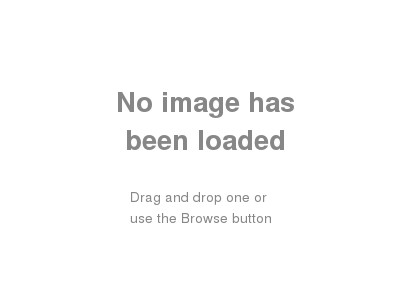
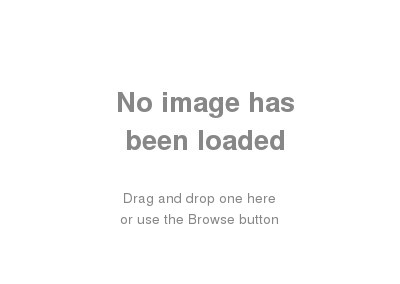
Dropping works ok

Changed region(s): [[0.3, 0.6761, 0.72, 0.7887]]

diff --git a/index.html b/index.html
@@ -4,7 +4,6 @@
     <meta charset="utf-8">
     <meta http-equiv="X-UA-Compatible" content="IE=edge">
     <meta name="viewport" content="width=device-width, initial-scale=1">
-    <!-- The above 3 meta tags *must* come first in the head; any other head content must come *after* these tags -->
     <meta name="description" content="Concerto Project">
     <meta name="author" content="Alberto Barquin">
 
@@ -14,7 +13,6 @@
     <link href="bootstrap.min.css" rel="stylesheet">
 
 	<!-- Custom styles for this template -->
-<!--    <link href="jumbotron.css" rel="stylesheet">-->
     <link href="stylesheet.css" rel="stylesheet">
 	<script type="text/javascript" src="misc.js"></script>
 
@@ -26,11 +24,7 @@
     <![endif]-->
   </head>
 
-  <body ondragover="drag(event)" ondragleave="nodrag(event)">
-	<div id="div1" ondrop="drop(event)" ondragover="event.preventDefault()">
-		<div class="center"><h2>Drop your image here</h2></div>
-	</div>
-
+  <body>
     <nav class="navbar navbar-inverse navbar-fixed-top">
       <div class="container">
         <div class="navbar-header">
@@ -42,8 +36,21 @@
           </button>
           <a class="navbar-brand" href="#">Concerto</a>
         </div>
-        <div id="navbar" class="navbar-collapse collapse">
-          <form class="navbar-form navbar-right">
+        <div id="navbar" class="navbar-collapse collapse" aria-expanded="false">
+			<ul class="nav navbar-nav">
+				<li class="active">
+					<a>Home</a>
+				</li>
+				<li>
+					<a href="#" onclick="undisplay(event)">Clear image</a>
+				</li>
+				<li>
+					<a href="#" role="button" onclick="analize()">Analize &raquo;</a>
+				</li>
+				<li>
+				</li>
+			</ul>
+       <!--   <form class="navbar-form navbar-right">
             <div class="form-group">
               <input type="text" placeholder="Email" class="form-control">
             </div>
@@ -51,32 +58,23 @@
               <input type="password" placeholder="Password" class="form-control">
             </div>
             <button type="submit" class="btn btn-success">Sign in</button>
-          </form>
+			</form> -->
         </div><!--/.navbar-collapse -->
       </div>
     </nav>
 
-    <!-- Main jumbotron for a primary marketing message or call to action -->
 	<div class="container">
 	  <div class="row">
-		  <div class="col-md-2"></div>
-		  <div class="col-md-4"></div>
 		  <div class="col-md-5">
-			<img id="image" src="noimage.jpg" draggable="false" onload="chksz(this)">
+			<img id="image" src="noimage.jpg" draggable="false" onload="chksz(this)" ondragover="drag(event)" ondrop="drop(event)">
+				<input id ="file" class="btn btn-primary btn-lg" href="#" type="file" onchange="load(event)"></input>
 			<div class="row">
-				<div class="col-md-1"></div>
-				<div class="col-md-7">
-					<p><input id ="file" class="btn btn-primary btn-lg" href="#" type="file" onchange="load(event)"></input></p>
-				</div>
-				<div class="col-md-2"></div>
 			</div>
 			<div class="row">
 				<div class="col-md-1"></div>
 				<div class="col-md-5">
-					<p><button class="btn btn-primary btn-lg" onclick="undisplay(event)">Clear</button></p>
 				</div>
 				<div class="col-md-4">
-					<p><a class="btn btn-primary btn-lg" href="#" role="button" onclick="analize()">Analize &raquo;</a></p>
 				</div>
 				<div class="col-md-3"></div>
 			</div>
@@ -99,9 +97,9 @@
 
     <!-- Bootstrap core JavaScript
     ================================================== -->
+    <script src="bootstrap.min.js"></script>
     <!-- Placed at the end of the document so the pages load faster 
     <script src="https://ajax.googleapis.com/ajax/libs/jquery/1.11.3/jquery.min.js"></script>
-    <script src="../../dist/js/bootstrap.min.js"></script>
     <!-- IE10 viewport hack for Surface/desktop Windows 8 bug -->
     <script src="../../assets/js/ie10-viewport-bug-workaround.js"></script>
 	-->

diff --git a/misc.js b/misc.js
@@ -50,22 +50,25 @@ function load(ev){
 }
 function drop(ev){
 	ev.preventDefault();
-	var dropcage = document.getElementById('div1');
+//	var dropcage = document.getElementById('div1');
 	var f = ev.dataTransfer.files[0];
 	var inputfile = document.getElementById('file');
 	inputfile.files[0] = f;
 	display(f);
-	dropcage.style.visibility = 'hidden';
+//	dropcage.style.visibility = 'hidden';
 }
 function drag(ev) {
+	undisplay();
+	console.log("Drag");
 //    alert('felt it!');
     ev.preventDefault();
-    var dropcage = document.getElementById('div1');
-	dropcage.style.top = 200 + window.pageYOffset + "px";
+//    var dropcage = document.getElementById('div1');
+//	dropcage.style.top = 200 + window.pageYOffset + "px";
 //    console.dir(dropcage);
-    dropcage.style.visibility = 'visible';
+//    dropcage.style.visibility = 'visible';
 }
 function nodrag(ev){
+	console.log("No drag");
 	ev.preventDefault();
 	document.getElementById("div1").style.visibility = "hidden";
 }

diff --git a/stylesheet.css b/stylesheet.css
@@ -1,17 +1,8 @@
-a,
-a:focus,
-a:hover {
-	color:#fff;
-	text-decoration:none;
-}
 .row {
 	padding-bottom:10px;
 }
 .navbar-inverse .navbar-brand {
 	color:#fff;
-}
-input[type=file]{
-	appearance:button;
 }
 .btn-success.focus,.btn-success:focus,.btn-success:hover{
 	color:#fff;
@@ -28,33 +19,20 @@ body {
 	padding-bottom: 20px;
 	background-color:#336699;
 }
-img {
-	float:right;
+#image {
 	margin:30px;
 	padding:10px;
 	background-color:white;
 	box-shadow: 0 0 5px black;
-}
-#image {
 	max-width:600;
 	max-height:600;
-}
-.inner {
-	margin:auto;
-	width:60%;
-}
-.center {
-	margin:auto;
-	width:70%;
-	height:50%;
-	vertical-align:70%;
-	color:#757575;
+	z-index:1;
 }
 #div1 {
 	position: absolute;
 	top:200px;
 	right:30%;
-	width:40%;
+	width:400px;
 	height:33%;
 	padding:10px;
 	margin:10px;
